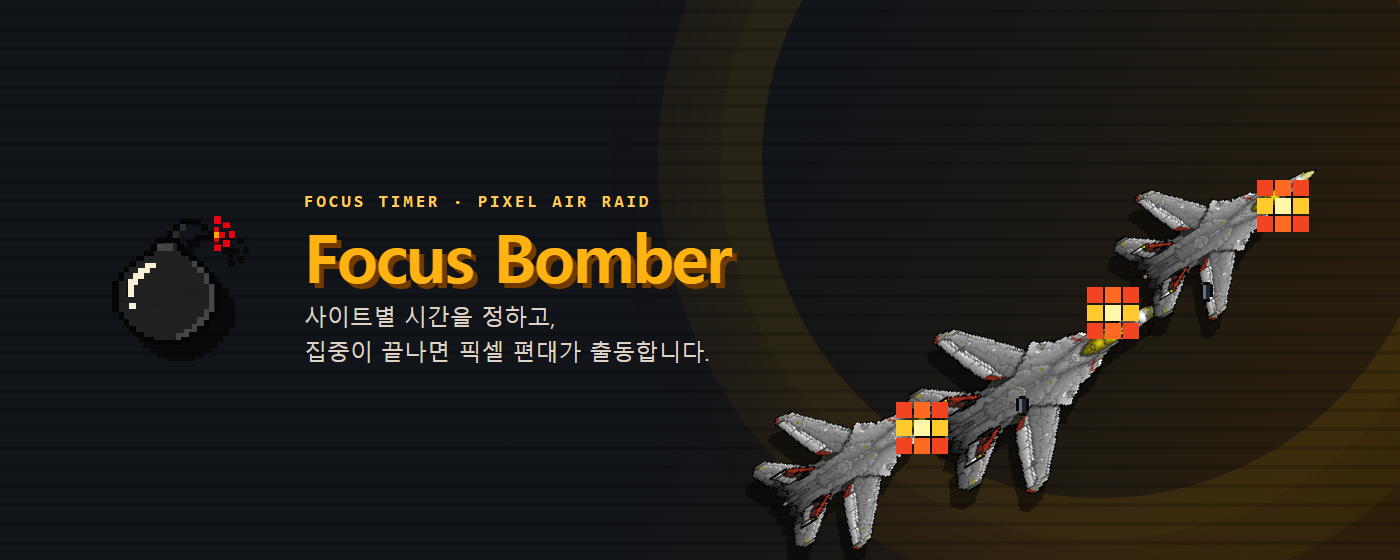
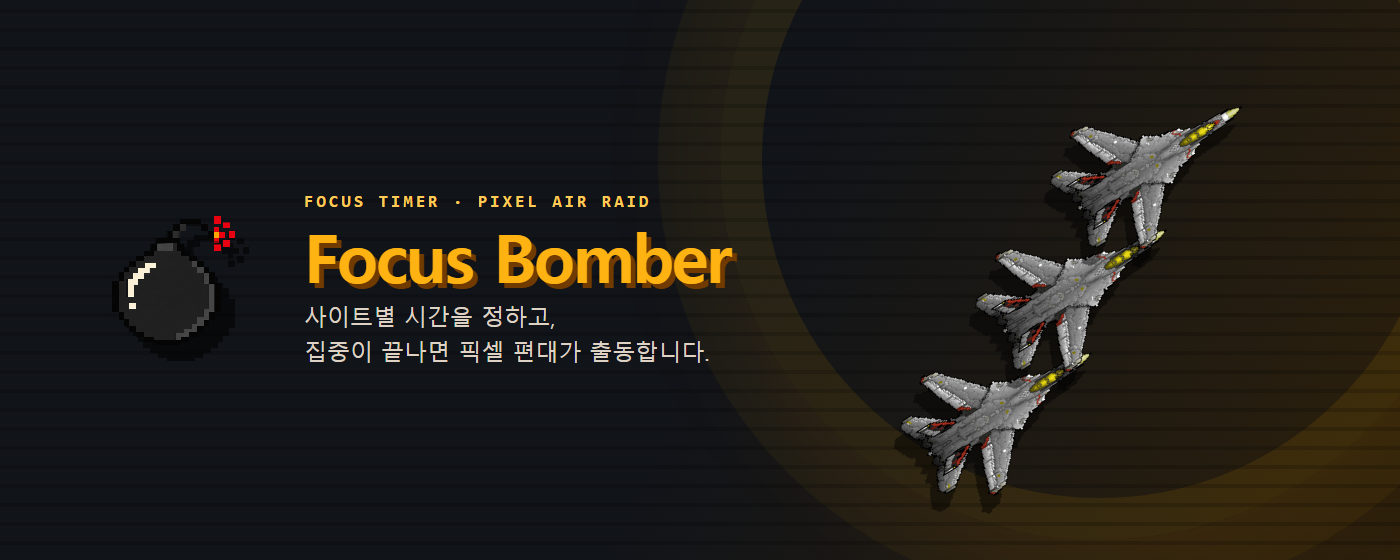
Refine marquee aircraft formation

Changed region(s): [[0.5221, 0.1821, 0.9521, 0.9714]]

diff --git a/store-assets/promo-marquee.html b/store-assets/promo-marquee.html
@@ -15,11 +15,7 @@
       .copy p { margin:0; color:#ded2c4; font-size:23px; line-height:1.5; }
       .formation { position:relative; height:400px; }
       .plane { position:absolute; width:190px; transform:rotate(58deg); image-rendering:pixelated; filter:drop-shadow(12px 15px 0 #0007); }
-      .p1 { left:0; top:245px; width:180px; }.p2 { left:160px; top:145px; width:215px; }.p3 { left:360px; top:28px; width:170px; }
-      .burst { position:absolute; width:16px; height:16px; background:#fff7a7; box-shadow:-18px 0 #ffca2d,18px 0 #ffca2d,0 -18px #ff6a22,0 18px #ff6a22,-18px -18px #f24420,18px 18px #f24420,18px -18px #f24420,-18px 18px #f24420; }
-      .x1 { left:134px; top:340px; }.x2 { left:325px; top:225px; }.x3 { left:495px; top:118px; }
-      .bomb { position:absolute; width:13px; height:20px; background:#20242b; border:3px solid #090a0c; box-shadow:inset 3px 0 #67717d; clip-path:polygon(25% 0,75% 0,75% 13%,100% 13%,100% 75%,75% 75%,75% 100%,25% 100%,25% 75%,0 75%,0 13%,25% 13%); }
-      .b1 { left:236px; top:316px; }.b2 { left:420px; top:202px; }
+      .p1 { left:145px; top:215px; width:160px; }.p2 { left:220px; top:92px; width:160px; }.p3 { left:295px; top:-31px; width:160px; }
     </style>
   </head>
   <body>
@@ -29,7 +25,6 @@
       <section class="copy"><div class="eyebrow">FOCUS TIMER · PIXEL AIR RAID</div><h1>Focus Bomber</h1><p>사이트별 시간을 정하고,<br>집중이 끝나면 픽셀 편대가 출동합니다.</p></section>
       <section class="formation">
         <img class="plane p1" src="../assets/aircraft-fighter.png" alt=""><img class="plane p2" src="../assets/aircraft-fighter.png" alt=""><img class="plane p3" src="../assets/aircraft-fighter.png" alt="">
-        <i class="bomb b1"></i><i class="bomb b2"></i><i class="burst x1"></i><i class="burst x2"></i><i class="burst x3"></i>
       </section>
     </main>
   </body>
